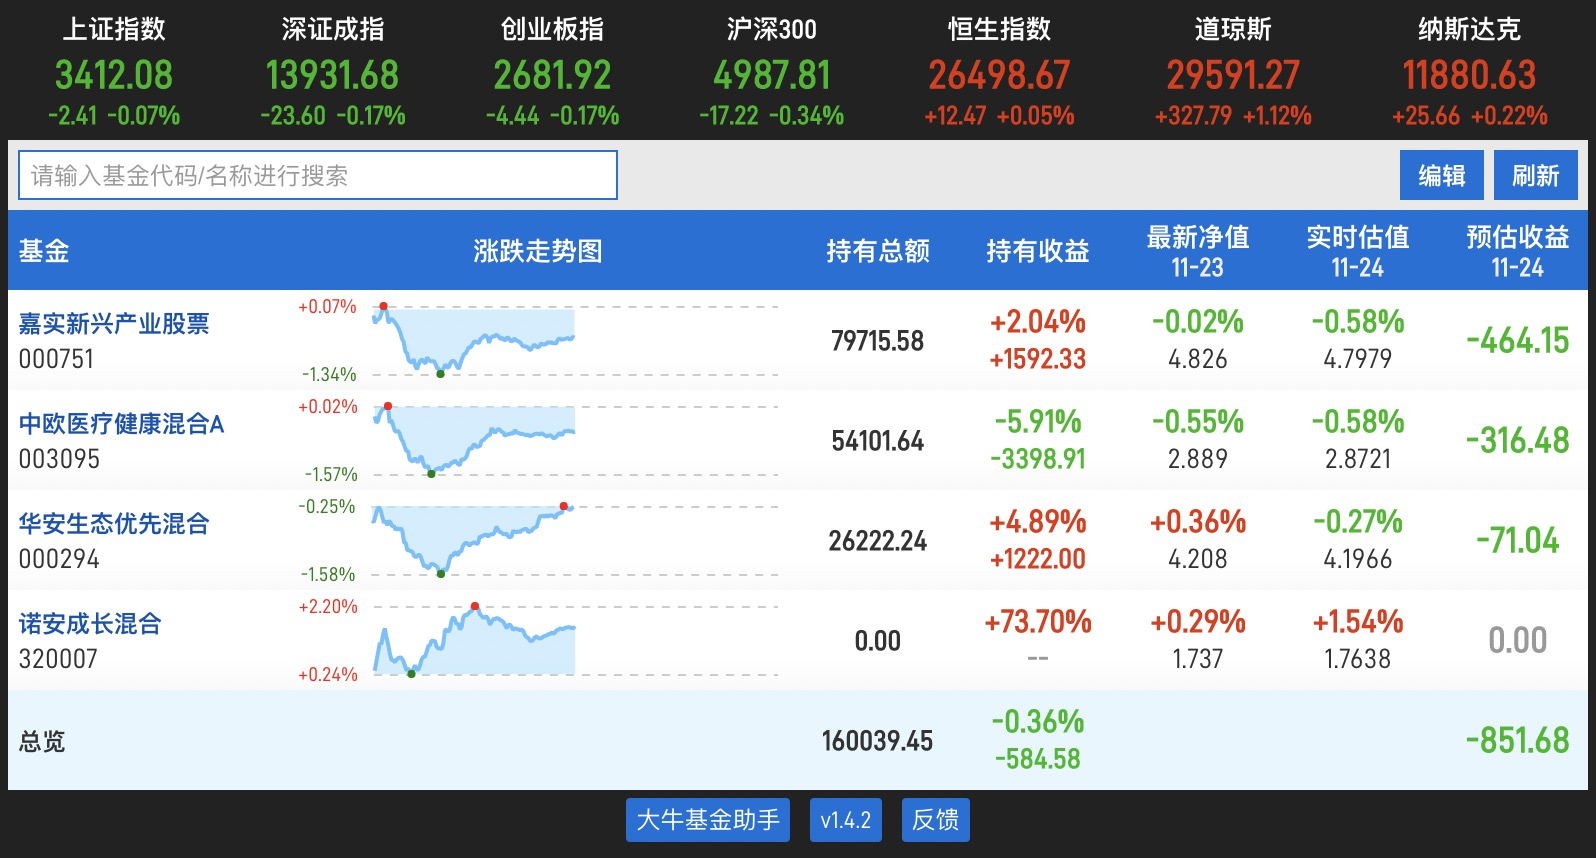
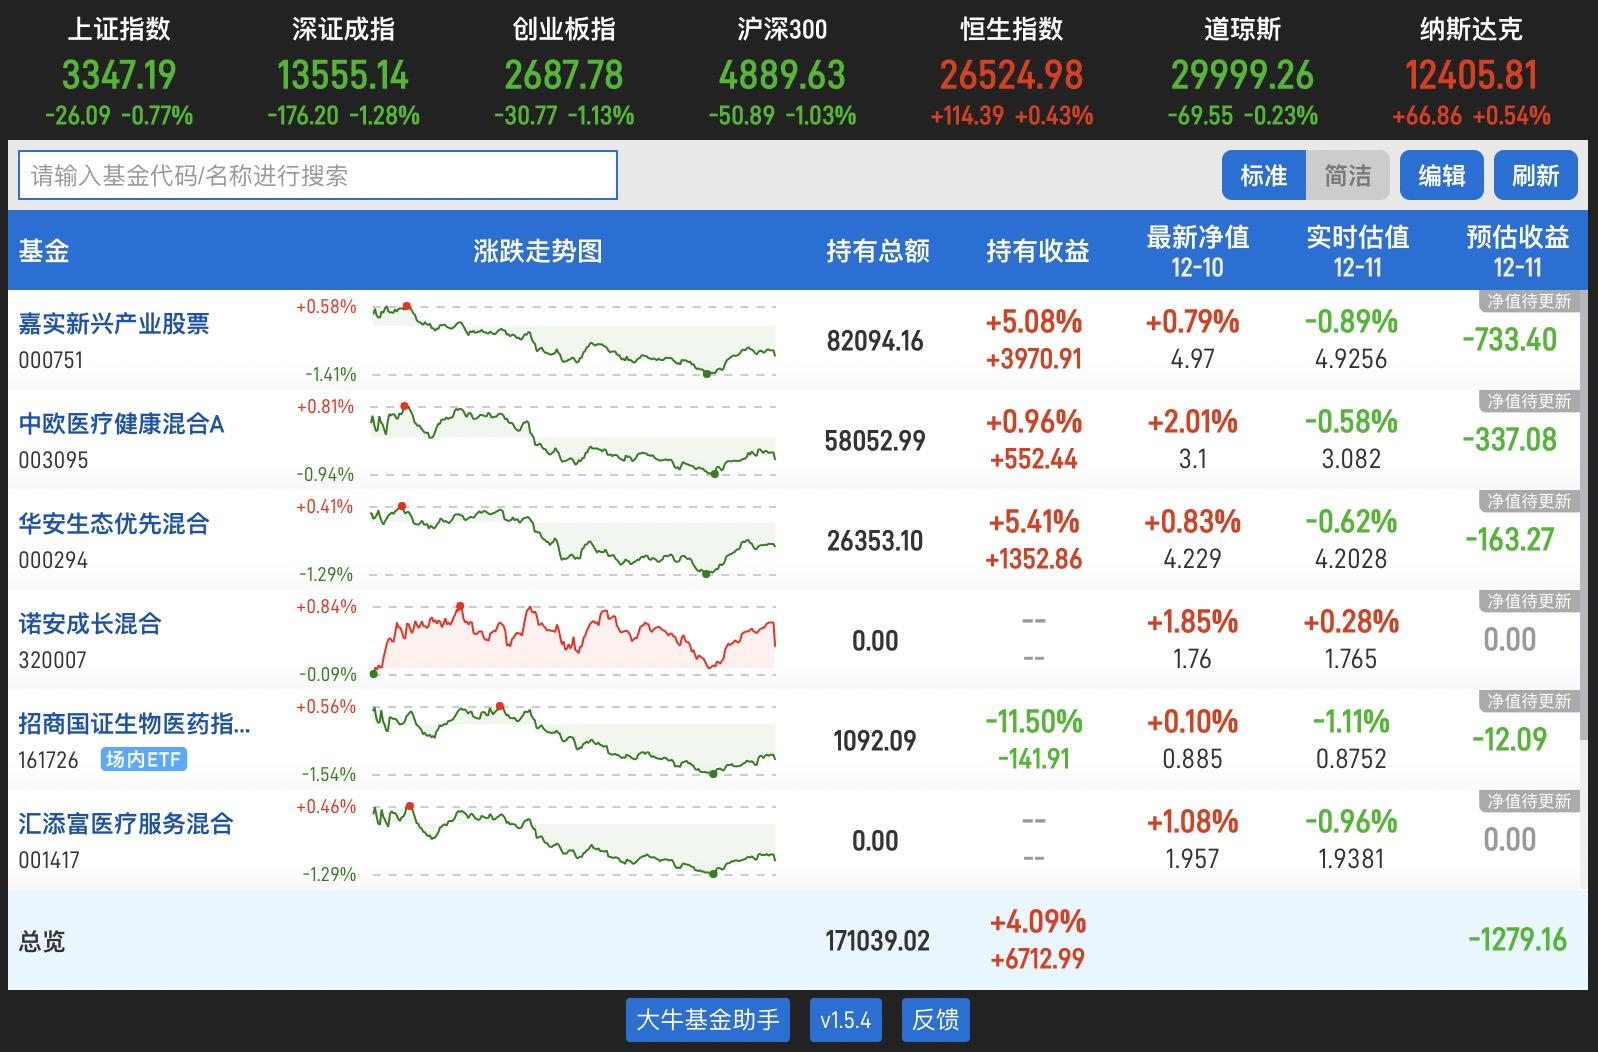
feat: update pics and fix tips

diff --git a/src/page/FundList/component/Funds/index.tsx b/src/page/FundList/component/Funds/index.tsx
@@ -216,8 +216,8 @@ export const Funds: React.FC = () => {
     const classNames = [styles.tips];
     let tipText = '';
     if (item.gainedExpected !== null) {
+      if (simplify) classNames.push(styles.simplify);
       if (item.updated) {
-        if (simplify) classNames.push(styles.simplify);
         classNames.push(styles.updated);
         tipText = !simplify ? '净值已更新' : '新';
       } else {

diff --git a/src/page/FundList/component/Funds/index.module.scss b/src/page/FundList/component/Funds/index.module.scss
@@ -115,7 +115,7 @@
 
     &.simplify {
       width: 16px;
-      transform: scale(0.6);
+      transform: scale(0.7);
     }
   }
 

diff --git a/README.md b/README.md
@@ -2,19 +2,36 @@
 大牛基金助手，实时查看您关注的基金，助您快速获取实时数据
 
 ## 目的
-为了上班的时候不用拿起手机查看基金涨跌情况
+- 为了上班的时候不用拿起手机查看基金涨跌情况
+- 为了你的一个 Star，请不要吝啬，撸代码也需要挤时间的
+
+## 功能
+- 基金持仓涨跌角标，实时更新（数据来源：天天基金）
+- 大盘数据，实时更新
+- 基金添加、配置
+- 自动计算涨跌幅度和持仓收益
+- 面板展示基金实时涨跌走势图`（ 独有 ）`
+- 基金重仓股票实时涨跌走势图
+- 标准/简洁模式切换
+- 可手动刷新
 
 ## 使用方式
-- chrome extension 安装` 大牛基金助手 `
+- chrome extension 安装 `大牛基金助手`
 - 通过基金代码或名称搜索并添加基金
-- 在编辑中输入持有份额和持仓成本
+- 在编辑中输入持有份额和持仓成本，enjoy
 
 ## 界面预览
-- 基金列表
+- 基金列表（标准界面）
 ![image](https://github.com/zswxp32/mou-fund/blob/master/pic/1.jpg)
 
-- 基金重仓股票列表
+- 基金重仓（简洁界面）
 ![image](https://github.com/zswxp32/mou-fund/blob/master/pic/2.jpg)
+
+- 基金编辑
+![image](https://github.com/zswxp32/mou-fund/blob/master/pic/3.jpg)
+
+- 基金重仓股票列表
+![image](https://github.com/zswxp32/mou-fund/blob/master/pic/4.jpg)
 
 ## 主要功能
 很多并持续更新中，请保持关注
